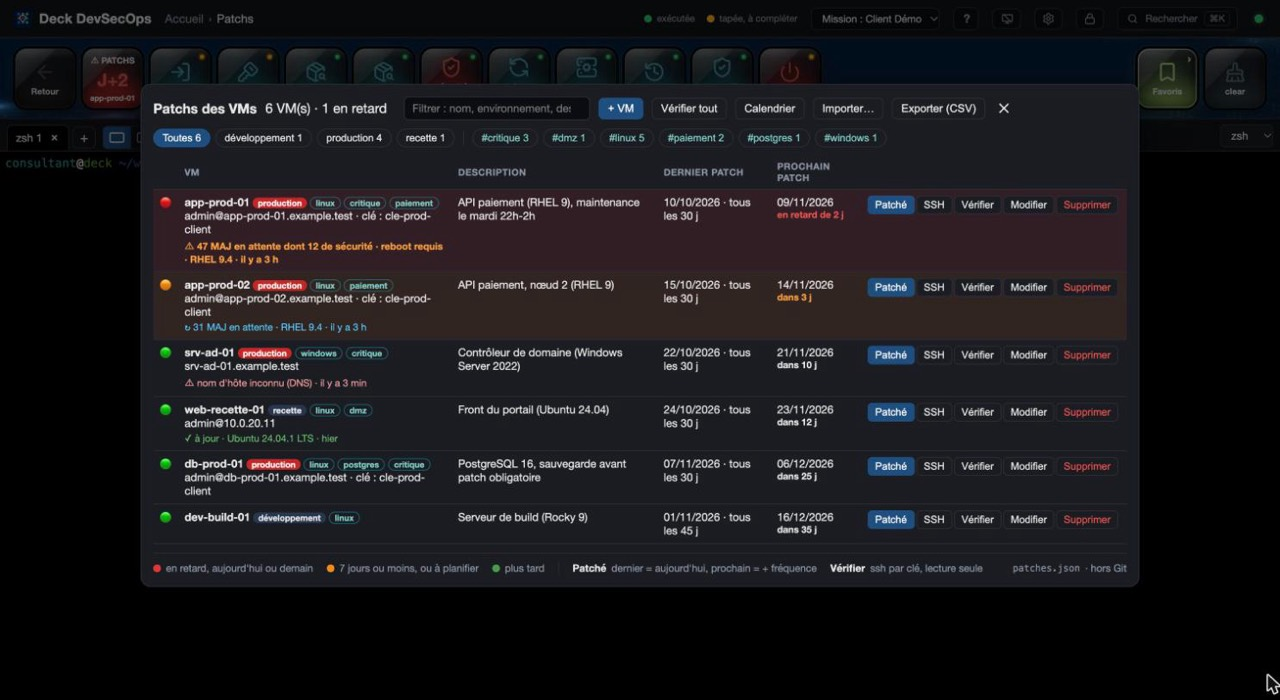
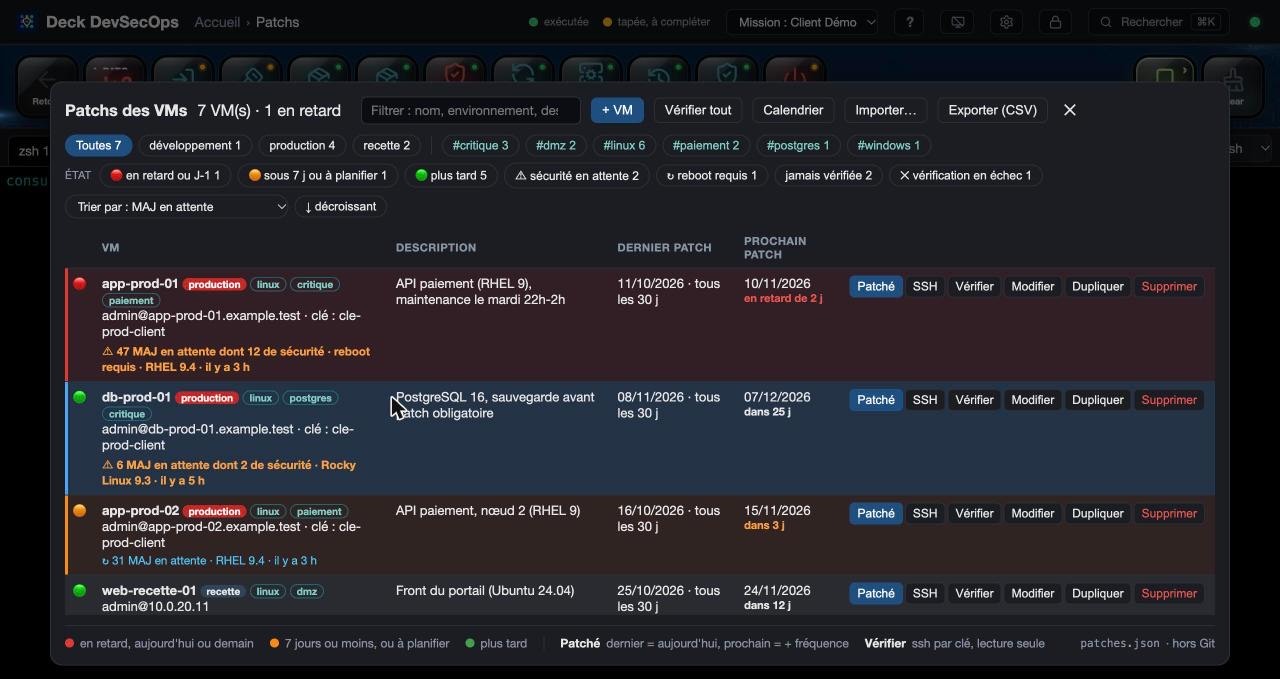
Patchs : lisibilité, filtres par état et tri, dupliquer une VM, VMs proposées à la connexion
- Inventaire : lignes alternées, ligne survolée surlignée, liseré d'urgence ; légende compacte
- Filtres par état (en retard, sous 7 j, plus tard, sécurité en attente, reboot requis, jamais
  vérifiée, vérification en échec), combinés avec environnement et tags
- Tri : urgence, nom, environnement, dates, MAJ en attente, dernière vérification (menu, sens,
  clic sur les titres de colonnes) ; choix retenu
- Dupliquer : formulaire pré-rempli, nom suivant libre, nom remplacé dans l'hôte
- Paramètres {host} : VMs de l'inventaire en tête (nom et environnement affichés), puis
  ~/.ssh/config ; ssh -i VM : la clé de la VM choisie est reprise
- Champs de date : calendrier au clic, aux couleurs du thème
- docs/13 et captures ; README

diff --git a/public/app.js b/public/app.js
@@ -933,12 +933,14 @@ function rememberParam(name, value) {
 
 const isNs = (name) => /^(namespace|ns)$/i.test(name);
 const isSvc = (name) => /^(service|svc)$/i.test(name);
+const isHost = (name) => /^(host|hote|hôte|serveur|server)$/i.test(name);
 const NAMESPACED = /^(pod|deployment|deploy|service|svc)$/i;
 const PARAM_NOUN = { pod: "pod", deployment: "deployment", deploy: "deployment", service: "service", svc: "service" };
 
 function openParams(key, command) {
-    const names = namedParams(command);
-    paramsState = { key, command, names, req: crypto.randomUUID(), options: new Map() };
+    // Hôte avant la clé SSH : on choisit la VM, sa clé est reprise de l'inventaire
+    const names = namedParams(command).sort((a, b) => (/^identit/i.test(a) && isHost(b) ? 1 : /^identit/i.test(b) && isHost(a) ? -1 : 0));
+    paramsState = { key, command, names, req: crypto.randomUUID(), options: new Map(), labels: new Map(), identities: {} };
     const defaults = paramDefaults(command);
     // Sélection du terminal (ou d'une note) : proposée pour le premier paramètre
     const terms = [state.terms.get(state.active), ...state.terms.values()].filter(Boolean);
@@ -1017,12 +1019,16 @@ function applyParamOptions(msg) {
     for (const input of $("#params-fields").querySelectorAll("input")) {
         if (input.dataset.name !== msg.name) continue;
         // Liste réelle, valeurs récemment utilisées en tête (seulement celles qui existent encore)
-        const recent = paramHistory(msg.name).filter((v) => msg.options.includes(v));
+        // Hôtes : VMs de l'inventaire en tête, dans l'ordre de l'inventaire (pas de réordonnancement par l'historique)
+        const recent = msg.inventory ? [] : paramHistory(msg.name).filter((v) => msg.options.includes(v));
         const options = [...recent, ...msg.options.filter((o) => !recent.includes(o))];
+        if (msg.labels) for (const [v, l] of Object.entries(msg.labels)) paramsState.labels.set(v, l);
+        if (msg.identities) Object.assign(paramsState.identities, msg.identities);
         const noun = PARAM_NOUN[msg.name.toLowerCase()];
         const status = msg.error ? `liste indisponible : ${msg.error} (saisie libre possible)`
             : !options.length && noun && ns ? `aucun ${noun} dans le namespace « ${ns} » : choisis un autre namespace`
             : !options.length ? "liste vide (saisie libre possible)"
+            : msg.inventory ? `${msg.inventory} VM(s) de l'inventaire en tête, puis ~/.ssh/config : clique ou ↑ ↓ puis Entrée`
             : `${options.length} valeur(s) : clique ou ↑ ↓ puis Entrée`;
         setParamOptions(input, options, status, !options.length && !msg.error);
     }
@@ -1041,9 +1047,13 @@ function setParamOptions(input, options, status, warn = false) {
 function showParamOptions(input) {
     const list = input.parentElement.querySelector(".param-options");
     const filter = fold(input.dataset.filter ?? "");
-    const options = (paramsState?.options.get(input.id) ?? []).filter((o) => fold(o).includes(filter)).slice(0, 200);
+    const labels = paramsState?.labels ?? new Map();
+    const options = (paramsState?.options.get(input.id) ?? []).filter((o) => fold(`${o} ${labels.get(o) ?? ""}`).includes(filter)).slice(0, 200);
     list.replaceChildren(...options.map((o, i) => {
         const li = Object.assign(document.createElement("li"), { textContent: o, className: i === 0 && filter ? "sel" : "" });
+        li.dataset.value = o;
+        // VM de l'inventaire : nom et environnement à droite de l'hôte
+        if (labels.has(o)) li.append(Object.assign(document.createElement("span"), { className: "param-label", textContent: labels.get(o) }));
         li.setAttribute("role", "option");
         li.addEventListener("mousedown", (ev) => { ev.preventDefault(); pickParam(input, o); });
         return li;
@@ -1054,6 +1064,12 @@ function showParamOptions(input) {
 /** Valeur choisie : champ rempli, liste fermée, champ suivant (ou bouton) ; un namespace recharge les pods. */
 function pickParam(input, value) {
     input.value = value;
+    // VM de l'inventaire choisie : sa clé SSH remplit {identity} s'il est vide (guillemets si le chemin a des espaces)
+    const identity = isHost(input.dataset.name) && paramsState?.identities?.[value];
+    if (identity) {
+        const keyInput = [...$("#params-fields").querySelectorAll("input")].find((x) => /^identit/i.test(x.dataset.name));
+        if (keyInput && !keyInput.value.trim()) keyInput.value = /\s/.test(identity) ? `"${identity}"` : identity;
+    }
     input.dataset.filter = "";
     input.parentElement.querySelector(".param-options").hidden = true;
     renderParamsPreview();
@@ -1078,7 +1094,7 @@ function paramKey(ev, input) {
         items[next].scrollIntoView({ block: "nearest" });
     } else if (ev.key === "Enter" && !list.hidden && cur >= 0) {
         ev.preventDefault();
-        pickParam(input, items[cur].textContent);
+        pickParam(input, items[cur].dataset.value ?? items[cur].textContent);
     } else if (ev.key === "Escape" && !list.hidden) {
         ev.preventDefault();
         ev.stopPropagation();
@@ -3689,7 +3705,40 @@ async function showDoc(page) {
 // ---------- Patchs des VMs (rubrique Patchs) ----------
 
 let patchEditing = null;   // VM en cours de modification (null = nouvelle)
-const patchFilter = { env: null, tags: new Set() };   // filtres de l'inventaire (environnement, tags combinés)
+const patchFilter = { env: null, tags: new Set(), state: null };   // filtres : environnement, tags combinés, état
+
+/** États filtrables d'une VM (urgence du patch, résultat de la dernière vérification). */
+const PATCH_STATES = [
+    ["late", "🔴 en retard ou J-1", (v) => patchDays(v) !== null && patchDays(v) <= 1],
+    ["soon", "🟠 sous 7 j ou à planifier", (v) => patchDays(v) === null || (patchDays(v) > 1 && patchDays(v) <= 7)],
+    ["ok", "🟢 plus tard", (v) => patchDays(v) !== null && patchDays(v) > 7],
+    ["security", "⚠ sécurité en attente", (v) => (v.check?.security ?? 0) > 0],
+    ["reboot", "↻ reboot requis", (v) => v.check?.reboot === true],
+    ["unchecked", "jamais vérifiée", (v) => !v.check],
+    ["failed", "✕ vérification en échec", (v) => Boolean(v.check?.error)]
+];
+
+/** Tris de l'inventaire : clé -> [libellé, comparaison croissante]. Choix retenu (localStorage). */
+const ENV_ORDER = ["production", "qualification", "recette", "développement", "autre"];
+const PATCH_SORTS = {
+    urgency: ["Urgence (prochain patch)", (a, b) => (patchDays(a) ?? -1e6) - (patchDays(b) ?? -1e6)],
+    name: ["Nom", (a, b) => a.name.localeCompare(b.name, "fr", { numeric: true })],
+    env: ["Environnement", (a, b) => ENV_ORDER.indexOf(a.env) - ENV_ORDER.indexOf(b.env) || a.name.localeCompare(b.name, "fr", { numeric: true })],
+    last: ["Dernier patch", (a, b) => (a.lastPatch || "0").localeCompare(b.lastPatch || "0")],
+    next: ["Prochain patch", (a, b) => (a.nextPatch || "9").localeCompare(b.nextPatch || "9")],
+    updates: ["MAJ en attente", (a, b) => (a.check?.security ?? -1) - (b.check?.security ?? -1) || (a.check?.updates ?? -1) - (b.check?.updates ?? -1)],
+    checked: ["Dernière vérification", (a, b) => (a.check?.at ?? "").localeCompare(b.check?.at ?? "")]
+};
+const patchSort = (() => {
+    try { const s = JSON.parse(localStorage.getItem("deck-patch-sort")); if (PATCH_SORTS[s?.key]) return { key: s.key, desc: Boolean(s.desc) }; } catch { /* stockage indisponible */ }
+    return { key: "urgency", desc: false };
+})();
+function setPatchSort(key, desc) {
+    patchSort.key = key;
+    patchSort.desc = desc;
+    try { localStorage.setItem("deck-patch-sort", JSON.stringify(patchSort)); } catch { /* choix non retenu */ }
+    renderPatches();
+}
 let patchPending = false;  // formulaire envoyé, en attente du serveur
 const patchChecking = new Set();   // VMs en cours de vérification (ssh, lecture seule)
 
@@ -3750,7 +3799,14 @@ function renderPatches() {
     const shown = vms.filter((v) => !q || fold(`${v.name} ${v.host} ${v.env} ${v.description} ${(v.tags ?? []).join(" ")}`).includes(q))
         .filter((v) => !patchFilter.env || v.env === patchFilter.env)
         .filter((v) => [...patchFilter.tags].every((t) => (v.tags ?? []).includes(t)))
-        .sort((a, b) => (patchDays(a) ?? -1e6) - (patchDays(b) ?? -1e6));
+        .filter((v) => !patchFilter.state || PATCH_STATES.find(([k]) => k === patchFilter.state)?.[2](v))
+        .sort((a, b) => (patchSort.desc ? -1 : 1) * PATCH_SORTS[patchSort.key][1](a, b) || a.name.localeCompare(b.name, "fr", { numeric: true }));
+    // Titres de colonnes : flèche sur la colonne triée
+    for (const th of document.querySelectorAll(".patch-table th[data-sort]")) {
+        const on = th.dataset.sort === patchSort.key;
+        th.classList.toggle("sorted", on);
+        th.dataset.arrow = on ? (patchSort.desc ? "↓" : "↑") : "";
+    }
     const late = vms.filter((v) => (patchDays(v) ?? 0) < 0).length;
     $("#patch-summary").textContent = vms.length ? `${vms.length} VM(s)${late ? ` · ${late} en retard` : ""}` : "";
     $("#patch-list").replaceChildren(...shown.map((vm) => {
@@ -3782,6 +3838,7 @@ function renderPatches() {
                 }),
                 btn(patchChecking.has(vm.id) ? "…" : "Vérifier", "Se connecte en ssh (sans mot de passe) et lit, sans rien modifier : mises à jour en attente dont sécurité, reboot requis, OS, noyau", () => send({ t: "patch-check", id: vm.id })),
                 btn("Modifier", "", () => openPatchForm(vm)),
+                btn("Dupliquer", "Nouvelle VM à partir de celle-ci (nom suivant proposé : app-prod-01 → app-prod-02)", () => openPatchForm(vm, { duplicate: true })),
                 del
             ], "patch-actions")
         );
@@ -3794,11 +3851,27 @@ function renderPatches() {
     }
 }
 
-function openPatchForm(vm = null) {
-    patchEditing = vm;
-    $("#patch-form-title").textContent = vm ? `Modifier « ${vm.name} »` : "Nouvelle VM";
-    $("#patch-name").value = vm?.name ?? "";
-    $("#patch-host").value = vm?.host ?? "";
+/**
+ * Nom libre pour une copie : numéro final incrémenté (app-prod-01 → app-prod-02, en gardant les zéros),
+ * sinon « -2 », « -3 »… ; jamais un nom déjà pris (sans tenir compte de la casse).
+ */
+function nextVmName(name) {
+    const taken = new Set((state.patches ?? []).map((v) => v.name.toLowerCase()));
+    const m = /^(.*?)(\d+)$/.exec(name);
+    for (let i = 1; i < 1000; i++) {
+        const candidate = m ? `${m[1]}${String(Number(m[2]) + i).padStart(m[2].length, "0")}` : `${name}-${i + 1}`;
+        if (!taken.has(candidate.toLowerCase())) return candidate;
+    }
+    return `${name}-copie`;
+}
+
+function openPatchForm(vm = null, { duplicate = false } = {}) {
+    patchEditing = duplicate ? null : vm;
+    const name = duplicate ? nextVmName(vm.name) : vm?.name ?? "";
+    $("#patch-form-title").textContent = duplicate ? `Nouvelle VM, copie de « ${vm.name} »` : vm ? `Modifier « ${vm.name} »` : "Nouvelle VM";
+    $("#patch-name").value = name;
+    // Copie : le nom de la VM d'origine remplacé dans l'hôte (admin@app-prod-01.client.fr → admin@app-prod-02.client.fr)
+    $("#patch-host").value = duplicate && vm.host ? vm.host.split(vm.name).join(name) : vm?.host ?? "";
     $("#patch-identity").value = vm?.identity ?? "";
     // Clés privées de ~/.ssh proposées (mêmes que la touche connexion -i)
     send({ t: "param-options", req: "patch-identity", name: "identity" });
@@ -3813,7 +3886,9 @@ function openPatchForm(vm = null) {
     $("#patch-tag-list").replaceChildren(...known.map((t) => new Option(t)));
     $("#patch-error").hidden = true;
     $("#patch-form").hidden = false;
+    $("#patch-form").scrollIntoView({ block: "nearest" });
     $("#patch-name").focus();
+    if (duplicate) $("#patch-name").select();
 }
 
 function savePatch() {
@@ -3841,13 +3916,26 @@ function renderPatchFilters(vms) {
         b.addEventListener("click", click);
         return b;
     };
-    const all = chip("Toutes", vms.length, !patchFilter.env && !patchFilter.tags.size, "all", () => { patchFilter.env = null; patchFilter.tags.clear(); renderPatches(); });
+    const all = chip("Toutes", vms.length, !patchFilter.env && !patchFilter.tags.size && !patchFilter.state, "all", () => { patchFilter.env = null; patchFilter.tags.clear(); patchFilter.state = null; renderPatches(); });
     const envChips = envs.map((e) => chip(e, count((v) => v.env === e), patchFilter.env === e, `env env-${e}`, () => { patchFilter.env = patchFilter.env === e ? null : e; renderPatches(); }));
     const tagChips = tags.map((t) => chip(`#${t}`, count((v) => (v.tags ?? []).includes(t)), patchFilter.tags.has(t), "tag", () => { patchFilter.tags.has(t) ? patchFilter.tags.delete(t) : patchFilter.tags.add(t); renderPatches(); }));
     // Filtre devenu sans objet (tag supprimé) : oublié
     for (const t of patchFilter.tags) if (!tags.includes(t)) patchFilter.tags.delete(t);
     if (patchFilter.env && !envs.includes(patchFilter.env)) patchFilter.env = null;
-    $("#patch-filters").replaceChildren(all, ...envChips, ...(tagChips.length ? [Object.assign(document.createElement("span"), { className: "patch-sep" }), ...tagChips] : []));
+    const row1 = Object.assign(document.createElement("div"), { className: "patch-filter-row" });
+    row1.append(all, ...envChips, ...(tagChips.length ? [Object.assign(document.createElement("span"), { className: "patch-sep" }), ...tagChips] : []));
+    // États : un à la fois (re-cliquer le retire) ; seuls ceux qui concernent au moins une VM, ou celui choisi
+    const states = PATCH_STATES.filter(([k, , pred]) => count(pred) || patchFilter.state === k)
+        .map(([k, label, pred]) => chip(label, count(pred), patchFilter.state === k, `state state-${k}`, () => { patchFilter.state = patchFilter.state === k ? null : k; renderPatches(); }));
+    const sort = Object.assign(document.createElement("select"), { className: "patch-sort", title: "Trier l'inventaire" });
+    sort.append(...Object.entries(PATCH_SORTS).map(([k, [label]]) => new Option(`Trier par : ${label}`, k, false, k === patchSort.key)));
+    sort.addEventListener("change", () => setPatchSort(sort.value, false));
+    const dir = Object.assign(document.createElement("button"), { type: "button", className: "patch-chip patch-dir", textContent: patchSort.desc ? "↓ décroissant" : "↑ croissant", title: "Inverser l'ordre" });
+    dir.addEventListener("click", () => setPatchSort(patchSort.key, !patchSort.desc));
+    const row2 = Object.assign(document.createElement("div"), { className: "patch-filter-row" });
+    row2.append(Object.assign(document.createElement("span"), { className: "patch-filter-label", textContent: "État" }), ...states,
+        Object.assign(document.createElement("span"), { className: "grow" }), sort, dir);
+    $("#patch-filters").replaceChildren(row1, row2);
     $("#patch-filters").hidden = vms.length === 0;
 }
 
@@ -4095,6 +4183,10 @@ $("#patch-template").addEventListener("click", (ev) => { ev.preventDefault(); do
 $("#patch-cancel").addEventListener("click", () => { $("#patch-form").hidden = true; });
 $("#patch-form").addEventListener("submit", (ev) => { ev.preventDefault(); savePatch(); });
 $("#patch-search").addEventListener("input", renderPatches);
+// Clic sur un titre de colonne : tri par cette colonne ; re-clic : ordre inversé
+for (const th of document.querySelectorAll(".patch-table th[data-sort]")) {
+    th.addEventListener("click", () => setPatchSort(th.dataset.sort, th.dataset.sort === patchSort.key ? !patchSort.desc : false));
+}
 $("#patches-close").addEventListener("click", () => { $("#patches").hidden = true; });
 $("#patches").addEventListener("mousedown", (ev) => { if (ev.target.id === "patches") $("#patches").hidden = true; });
 $("#patches").addEventListener("keydown", (ev) => {

diff --git a/public/style.css b/public/style.css
@@ -1378,8 +1378,6 @@ main {
 .patch-table { width: 100%; border-collapse: collapse; font-size: 13px; }
 .patch-table th { text-align: left; font-size: 11px; text-transform: uppercase; letter-spacing: .04em; color: var(--muted); padding: 6px 8px; border-bottom: 1px solid var(--border); position: sticky; top: 0; background: var(--panel); }
 .patch-table td { padding: 7px 8px; border-bottom: 1px solid var(--border); vertical-align: top; color: var(--text); }
-.patch-table tr.patch-rouge td { background: color-mix(in srgb, #c62828 12%, transparent); }
-.patch-table tr.patch-orange td { background: color-mix(in srgb, #ef6c00 10%, transparent); }
 .patch-desc { max-width: 340px; color: var(--muted); white-space: pre-wrap; }
 .patch-when { font-size: 11px; font-weight: 600; }
 .patch-rouge .patch-when { color: #ef5350; }
@@ -1481,3 +1479,33 @@ input[type="date"], input[type="datetime-local"] { color-scheme: dark; cursor: p
 [data-mode="light"] input[type="date"], [data-mode="light"] input[type="datetime-local"] { color-scheme: light; }
 input[type="date"]::-webkit-calendar-picker-indicator, input[type="datetime-local"]::-webkit-calendar-picker-indicator { opacity: .85; cursor: pointer; padding: 2px; border-radius: 4px; }
 input[type="date"]::-webkit-calendar-picker-indicator:hover, input[type="datetime-local"]::-webkit-calendar-picker-indicator:hover { opacity: 1; background: color-mix(in srgb, var(--accent) 25%, transparent); }
+/* Patchs : lignes plus faciles à distinguer (couleurs alternées, survol, liseré d'urgence) */
+.patch-table tbody tr:nth-child(even) td { background: color-mix(in srgb, var(--text) 7%, transparent); }
+.patch-table tbody tr.patch-rouge td { background: color-mix(in srgb, #c62828 12%, transparent); }
+.patch-table tbody tr.patch-rouge:nth-child(even) td { background: color-mix(in srgb, #c62828 17%, transparent); }
+.patch-table tbody tr.patch-orange td { background: color-mix(in srgb, #ef6c00 9%, transparent); }
+.patch-table tbody tr.patch-orange:nth-child(even) td { background: color-mix(in srgb, #ef6c00 14%, transparent); }
+.patch-table tbody tr td:first-child { box-shadow: inset 3px 0 0 transparent; }
+.patch-table tbody tr.patch-rouge td:first-child { box-shadow: inset 3px 0 0 #e53935; }
+.patch-table tbody tr.patch-orange td:first-child { box-shadow: inset 3px 0 0 #fb8c00; }
+.patch-table tbody tr { transition: background-color .12s; }
+.patch-table tbody tr:hover td { background: color-mix(in srgb, var(--accent) 16%, transparent); }
+.patch-table tbody tr:hover td:first-child { box-shadow: inset 3px 0 0 var(--accent); }
+[data-mode="light"] .patch-table tbody tr:nth-child(even) td { background: color-mix(in srgb, #000 5%, transparent); }
+[data-mode="light"] .patch-table tbody tr:hover td { background: color-mix(in srgb, var(--accent) 12%, transparent); }
+.patch-actions button { padding: 3px 7px; }
+/* Fenêtre de paramètres : nom et environnement d'une VM de l'inventaire à côté de l'hôte */
+.param-options li .param-label { float: right; margin-left: 12px; font-size: 11px; color: var(--muted); }
+/* Patchs : filtres sur deux lignes (environnement et tags ; état et tri), titres de colonnes triables */
+.patch-filters { flex-direction: column; align-items: stretch; gap: 6px; }
+.patch-filter-row { display: flex; flex-wrap: wrap; align-items: center; gap: 6px; }
+.patch-filter-row .grow { flex: 1; }
+.patch-filter-label { font-size: 11px; text-transform: uppercase; letter-spacing: .05em; color: var(--muted); margin-right: 2px; }
+.patch-chip.state.on { background: var(--accent-strong); color: #fff; }
+.patch-chip.state-late.on { background: #c62828; }
+.patch-chip.state-soon.on { background: #e65100; }
+.patch-sort { padding: 3px 8px; border: 1px solid var(--border); border-radius: 14px; background: var(--panel); color: var(--text); font: inherit; font-size: 12px; cursor: pointer; }
+.patch-table th[data-sort] { cursor: pointer; user-select: none; }
+.patch-table th[data-sort]:hover { color: var(--text); }
+.patch-table th.sorted { color: var(--accent); }
+.patch-table th[data-sort]::after { content: attr(data-arrow); margin-left: 4px; }

diff --git a/public/index.html b/public/index.html
@@ -656,7 +656,7 @@
             <div id="patch-filters" class="patch-filters" role="group" aria-label="Filtrer par environnement ou par tag"></div>
             <div class="patch-table-wrap">
                 <table class="patch-table">
-                    <thead><tr><th></th><th>VM</th><th>Description</th><th>Dernier patch</th><th>Prochain patch</th><th></th></tr></thead>
+                    <thead><tr><th></th><th data-sort="name" title="Trier par nom">VM</th><th>Description</th><th data-sort="last" title="Trier par dernier patch">Dernier patch</th><th data-sort="next" title="Trier par prochain patch">Prochain patch</th><th></th></tr></thead>
                     <tbody id="patch-list"></tbody>
                 </table>
             </div>

diff --git a/README.md b/README.md
@@ -205,7 +205,7 @@ Après une modification de `config.jsonc` ou `paths.json`, redémarrer le serveu
 
 ## Patchs des VMs
 
-Rubrique **Patchs** (à cocher dans Réglages › Rubriques) : inventaire de tes VMs (nom, hôte SSH, clé SSH pour `ssh -i`, environnement, tags libres (`linux, dmz, critique`), description, dernier et prochain patch, fréquence) dans `patches.json` (hors Git, sauvegardé, inclus dans la configuration complète). Le **voyant patchs** affiche la VM la plus urgente (J-3, J, J+2 en retard) : vert, **orange à 7 jours ou moins**, **rouge à J-1, le jour même ou en retard** ; alertes une fois par seuil comme pour les certificats. **Patché** met le dernier patch à aujourd'hui et recalcule le prochain avec la fréquence (noté dans le journal). Touches **ssh VM** et **ssh -i VM** (clé puis hôte, listes réelles) ; bouton **SSH** de l'inventaire avec la clé de la VM si elle est renseignée. Touches de vérification sur la VM après un ssh : mises à jour en attente (apt / dnf), sécurité, redémarrage requis, noyau, historique, correctifs Windows. **Import en masse** depuis un CSV (Excel : séparateur `;`, dates JJ/MM/AAAA ; colonnes nom, hote, cle, environnement, dernier_patch, prochain_patch, frequence, tags, description) avec aperçu avant confirmation (ajout ou mise à jour par nom, jamais de suppression), **export CSV** réimportable et modèle à remplir. **Filtres** de l'inventaire par environnement et par tags (combinés), avec le nombre de VMs. **Vérifier** / **Vérifier tout** : ssh par clé, sans mot de passe (`BatchMode`, clé d'hôte jamais acceptée à ta place), en **lecture seule** : mises à jour en attente dont sécurité (apt, dnf/yum ; zypper, apk), redémarrage requis, OS, noyau ; résultat gardé dans l'inventaire. Détails : [docs/13-patchs.md](docs/13-patchs.md).
+Rubrique **Patchs** (à cocher dans Réglages › Rubriques) : inventaire de tes VMs (nom, hôte SSH, clé SSH pour `ssh -i`, environnement, tags libres (`linux, dmz, critique`), description, dernier et prochain patch, fréquence) dans `patches.json` (hors Git, sauvegardé, inclus dans la configuration complète). Le **voyant patchs** affiche la VM la plus urgente (J-3, J, J+2 en retard) : vert, **orange à 7 jours ou moins**, **rouge à J-1, le jour même ou en retard** ; alertes une fois par seuil comme pour les certificats. **Patché** met le dernier patch à aujourd'hui et recalcule le prochain avec la fréquence (noté dans le journal). Touches **ssh VM** et **ssh -i VM** (clé puis hôte, listes réelles) ; bouton **SSH** de l'inventaire avec la clé de la VM si elle est renseignée. Touches de vérification sur la VM après un ssh : mises à jour en attente (apt / dnf), sécurité, redémarrage requis, noyau, historique, correctifs Windows. **Import en masse** depuis un CSV (Excel : séparateur `;`, dates JJ/MM/AAAA ; colonnes nom, hote, cle, environnement, dernier_patch, prochain_patch, frequence, tags, description) avec aperçu avant confirmation (ajout ou mise à jour par nom, jamais de suppression), **export CSV** réimportable et modèle à remplir. Inventaire lisible (lignes alternées, ligne survolée, liseré d'urgence). **Filtres** par environnement, par tags (combinés) et par **état** (en retard, sous 7 j, sécurité en attente, reboot requis, jamais vérifiée, vérification en échec), avec le nombre de VMs ; **tri** par urgence, nom, environnement, dates, MAJ en attente ou dernière vérification (menu, ou clic sur les titres de colonnes ; retenu). **Dupliquer** une VM : formulaire pré-rempli, nom suivant libre (`app-prod-01` → `app-prod-02`). Les touches qui demandent un hôte (**ssh VM**, **ssh -i VM**, rubrique SSH) proposent **les VMs de l'inventaire en tête** (nom et environnement affichés), la clé de la VM étant reprise pour `ssh -i`. **Vérifier** / **Vérifier tout** : ssh par clé, sans mot de passe (`BatchMode`, clé d'hôte jamais acceptée à ta place), en **lecture seule** : mises à jour en attente dont sécurité (apt, dnf/yum ; zypper, apk), redémarrage requis, OS, noyau ; résultat gardé dans l'inventaire. Détails : [docs/13-patchs.md](docs/13-patchs.md).
 
 **Échéances** (bouton Calendrier, ou ⌘K) : calendrier du mois des prochains patchs et des expirations de certificats, liste du retard et des 60 prochains jours, **export .ics** pour Outlook / Google Agenda (rappel 3 j avant en production, 1 j sinon ; réimporter met à jour sans dupliquer). **Synthèse du client** (⌘K) : état de la mission (contexte kubectl, certificats et VMs par environnement, à traiter, échéances à 30 jours, actions en production des 7 derniers jours), à copier en Markdown ou télécharger. Détails : [docs/14-echeances-et-synthese.md](docs/14-echeances-et-synthese.md).
 

diff --git a/docs/13-patchs.md b/docs/13-patchs.md
@@ -12,8 +12,9 @@ Active-la dans **Réglages › Rubriques** (case **Patchs**). Elle contient :
 
 - le **voyant patchs** (première touche) : le délai de la VM la plus urgente en gros (**J-3** = dans 3 jours, **J** =
   aujourd'hui, **J+2** = 2 jours de retard) et son nom en bas ; un clic ouvre l'inventaire ;
-- **ssh VM** : choisis la VM dans la liste de tes hôtes SSH ;
-- **ssh -i VM** : choisis d'abord la **clé** (tes clés privées de `~/.ssh`), puis l'hôte → `ssh -i <clé> <hôte>` ;
+- **ssh VM** : choisis la VM dans la liste ;
+- **ssh -i VM** : choisis la VM, sa **clé** est reprise de l'inventaire (sinon choisis-la parmi tes clés privées de
+  `~/.ssh`) → `ssh -i <clé> <hôte>` ;
 - des commandes à lancer **sur la VM** (après le ssh) : mises à jour en attente (**MAJ (apt)**, **MAJ (dnf)**),
   **sécurité seule**, **reboot requis ?**, **noyau et boot**, **historique** des derniers paquets, **redémarrer** (dans
   1 min, à valider) ; sous Windows, elles s'activent une fois le terminal connecté en ssh ;
@@ -28,6 +29,12 @@ Active-la dans **Réglages › Rubriques** (case **Patchs**). Elle contient :
 **Alertes** : comme pour les certificats, un message dans le deck et une notification du système (si autorisée avec la
 cloche des terminaux) quand une VM passe à l'orange puis au rouge, une seule fois par seuil.
 
+Dans ces listes (et dans toutes les touches qui demandent un hôte, rubrique SSH comprise), **les VMs de
+l'inventaire viennent en tête**, par ordre alphabétique, avec leur nom et leur environnement à droite ; ensuite les
+hôtes de `~/.ssh/config`. Tape quelques lettres (nom de VM, hôte ou environnement) pour filtrer.
+
+![Choisir une VM de l'inventaire](img/patchs-ssh-vm.jpg)
+
 ## L'inventaire
 
 ![Inventaire des VMs](img/patchs-inventaire.jpg)
@@ -35,16 +42,33 @@ cloche des terminaux) quand une VM passe à l'orange puis au rouge, une seule fo
 Les VMs sont triées de la plus urgente à la moins urgente, avec leur environnement (production en rouge), leurs
 **tags**, leur description, le dernier et le prochain patch.
 
-**Filtres** (sous l'en-tête) : un bouton par environnement et un par tag, avec le nombre de VMs. Un environnement à la
-fois ; les tags se **combinent** (ex. **production** + **#critique** : les VMs de production marquées critiques).
-Re-cliquer retire le filtre, **Toutes** les retire tous. Le champ **Filtrer** cherche en plus dans le nom, l'hôte, la
-description et les tags. Pour chaque VM :
+Lignes en **couleurs alternées**, ligne survolée surlignée en bleu, et un **liseré rouge ou orange** à gauche des VMs
+urgentes.
+
+**Filtres** (sous l'en-tête), avec le nombre de VMs sur chaque bouton :
+
+- **environnement** (un à la fois) et **tags** (ils se **combinent** : **production** + **#critique**) ;
+- **État** : 🔴 en retard ou J-1, 🟠 sous 7 j ou à planifier, 🟢 plus tard, ⚠ sécurité en attente, ↻ reboot requis,
+  jamais vérifiée, ✕ vérification en échec (un à la fois ; seuls les états présents sont proposés) ;
+- le champ **Filtrer** cherche en plus dans le nom, l'hôte, la description et les tags.
+
+Tous se combinent ; re-cliquer retire un filtre, **Toutes** les retire tous.
+
+**Tri** : menu **Trier par** (urgence, nom, environnement, dernier patch, prochain patch, MAJ en attente, dernière
+vérification) et bouton **↑ croissant / ↓ décroissant** ; ou clic sur les titres **VM**, **Dernier patch**,
+**Prochain patch** (re-clic : ordre inversé, flèche sur la colonne triée). Le tri choisi est retenu.
+
+Pour chaque VM :
 
 - **Patché** : le dernier patch devient aujourd'hui et le prochain est recalculé avec la fréquence (ex. tous les 30 j) ;
   l'action est notée dans le [journal](10-reglages-et-tracabilite.md#journal-des-actions) ;
 - **SSH** : tape `ssh <hôte>` dans le terminal (sans Entrée), ou `ssh -i <clé> <hôte>` si une clé est renseignée pour
   la VM (affichée sous son nom : « clé : … ») ;
 - **Vérifier** : voir ci-dessous ;
+- **Dupliquer** : une nouvelle VM pré-remplie à partir de celle-ci (hôte, clé, environnement, tags, dates, fréquence,
+  description), avec le **nom suivant libre** (`app-prod-01` → `app-prod-02`, ou `-03` si `-02` existe) ; le nom est
+  aussi remplacé dans l'hôte (`admin@app-prod-01.client.fr` → `admin@app-prod-02.client.fr`). Vérifie l'hôte et les
+  dates avant d'enregistrer ;
 - **Modifier**, **Supprimer** (deux clics).
 
 **Calendrier** (en-tête) : les échéances du mois et l'export vers Outlook, voir
